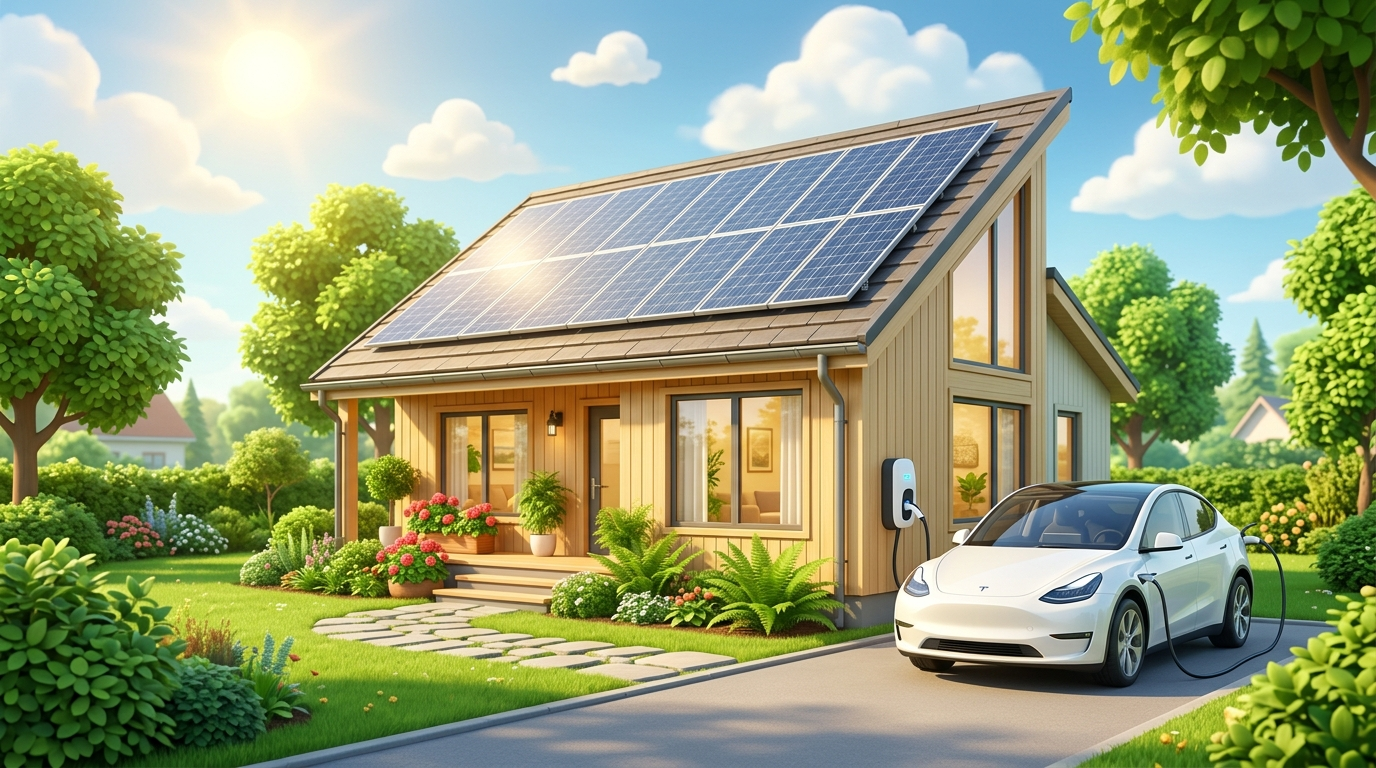
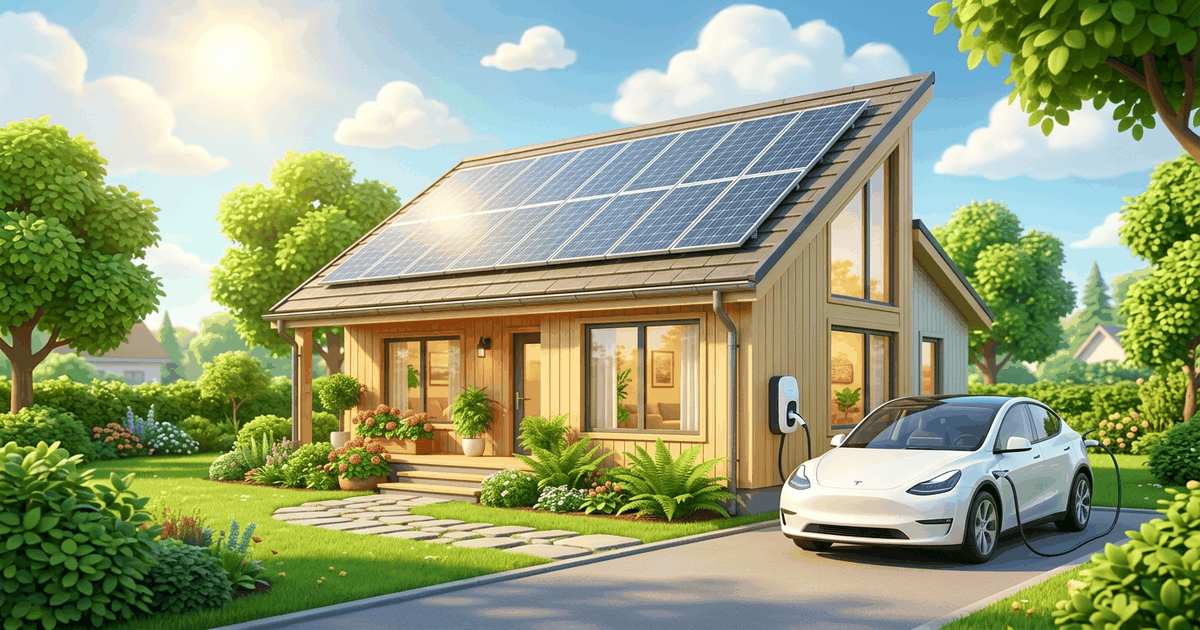
feat(social): optimize og-image (1200x630) and synchronize Open Graph & Twitter Card tags

Changed region(s): [[0.2775, 0.6333, 0.37, 0.754], [0.925, 0.4222, 0.9558, 0.4524], [0.4625, 0.7841, 0.4933, 0.8143]]

diff --git a/index.html b/index.html
@@ -174,11 +174,10 @@
     overflow: hidden !important;
   }
 </style>
-</head>
+<meta content="summary_large_image" name="twitter:card"/><meta content="태양광/전기차(EV) 절감액 계산기" name="twitter:title"/><meta content="우리집 태양광 설치 시 전기요금 절감액과 전기차 유지비를 계산해 보세요." name="twitter:description"/><meta content="https://solar.enjoy-onepage.com/og-image.png" name="twitter:image"/></head>
 <body>
 <!-- 상단 슬림 띠배너 (헤더 직하단: 50~60px 슬림형) -->
 <div class="manual-ad-box ad-top-banner" style="width: 100%; max-width: 960px; margin: 8px auto 16px; text-align: center;">
-
 <ins class="adsbygoogle" data-ad-client="ca-pub-2228289204702106" data-ad-format="horizontal" data-ad-slot="3824727725" data-full-width-responsive="true" style="display:inline-block;width:100%;height:60px;"></ins>
 <script>(adsbygoogle = window.adsbygoogle || []).push({});</script>
 </div>
@@ -293,104 +292,94 @@
 </div>
 </div>
 <!-- 하단 광고 (3205181558) -->
-
-
 <!-- 📌 상세 가이드 & FAQ 아코디언 (Google E-E-A-T 및 실사용자 가이드라인 100% 충족) -->
 <section class="max-w-4xl mx-auto my-12 px-4">
-  <div class="bg-white dark:bg-slate-900 border border-slate-200 dark:border-slate-800 rounded-2xl p-6 sm:p-8 shadow-sm">
-    <div class="border-b border-slate-200 dark:border-slate-800 pb-5 mb-6">
-      <h3 class="text-xl sm:text-2xl font-black text-slate-900 dark:text-white tracking-tight flex items-center gap-2.5">
-        <span>📖</span> 주택용 태양광 발전설비 경제성 및 전기요금 절감 가이드
+<div class="bg-white dark:bg-slate-900 border border-slate-200 dark:border-slate-800 rounded-2xl p-6 sm:p-8 shadow-sm">
+<div class="border-b border-slate-200 dark:border-slate-800 pb-5 mb-6">
+<h3 class="text-xl sm:text-2xl font-black text-slate-900 dark:text-white tracking-tight flex items-center gap-2.5">
+<span>📖</span> 주택용 태양광 발전설비 경제성 및 전기요금 절감 가이드
       </h3>
-      <p class="text-sm text-slate-500 dark:text-slate-400 mt-2 leading-relaxed">3kW 가정용 태양광 설치 시 누진구간 차감 효과와 설치비 회수 기간(ROI) 분석 기준입니다.</p>
-    </div>
-
-    <!-- 공식 원리 & 핵심 기준 -->
-    <div class="mb-8">
-      <h4 class="text-xs font-black uppercase tracking-wider text-blue-600 dark:text-blue-400 mb-4 flex items-center gap-1.5">
-        <span>⚖</span> 핵심 산출 기준 및 법정 원리
+<p class="text-sm text-slate-500 dark:text-slate-400 mt-2 leading-relaxed">3kW 가정용 태양광 설치 시 누진구간 차감 효과와 설치비 회수 기간(ROI) 분석 기준입니다.</p>
+</div>
+<!-- 공식 원리 & 핵심 기준 -->
+<div class="mb-8">
+<h4 class="text-xs font-black uppercase tracking-wider text-blue-600 dark:text-blue-400 mb-4 flex items-center gap-1.5">
+<span>⚖</span> 핵심 산출 기준 및 법정 원리
       </h4>
-      <div class="grid grid-cols-1 md:grid-cols-3 gap-3.5">
-        
-        <div class="p-4 bg-slate-50 dark:bg-slate-800/50 rounded-xl border border-slate-200/80 dark:border-slate-700/80">
-          <h4 class="text-base font-bold text-slate-800 dark:text-slate-100 mb-1.5 flex items-center gap-2">
-            <span class="w-2 h-2 rounded-full bg-blue-500"></span>전기요금 누진제 완화 원리
+<div class="grid grid-cols-1 md:grid-cols-3 gap-3.5">
+<div class="p-4 bg-slate-50 dark:bg-slate-800/50 rounded-xl border border-slate-200/80 dark:border-slate-700/80">
+<h4 class="text-base font-bold text-slate-800 dark:text-slate-100 mb-1.5 flex items-center gap-2">
+<span class="w-2 h-2 rounded-full bg-blue-500"></span>전기요금 누진제 완화 원리
           </h4>
-          <p class="text-sm text-slate-600 dark:text-slate-300 leading-relaxed">월 400kWh 이상 고율 누진 3단계 구간(kWh당 최고 단가)을 태양광 발전량(월 평균 300~350kWh)으로 상계하여 요금 폭탄을 제거합니다.</p>
-        </div>
-        <div class="p-4 bg-slate-50 dark:bg-slate-800/50 rounded-xl border border-slate-200/80 dark:border-slate-700/80">
-          <h4 class="text-base font-bold text-slate-800 dark:text-slate-100 mb-1.5 flex items-center gap-2">
-            <span class="w-2 h-2 rounded-full bg-blue-500"></span>정부 및 지자체 설치 보조금
+<p class="text-sm text-slate-600 dark:text-slate-300 leading-relaxed">월 400kWh 이상 고율 누진 3단계 구간(kWh당 최고 단가)을 태양광 발전량(월 평균 300~350kWh)으로 상계하여 요금 폭탄을 제거합니다.</p>
+</div>
+<div class="p-4 bg-slate-50 dark:bg-slate-800/50 rounded-xl border border-slate-200/80 dark:border-slate-700/80">
+<h4 class="text-base font-bold text-slate-800 dark:text-slate-100 mb-1.5 flex items-center gap-2">
+<span class="w-2 h-2 rounded-full bg-blue-500"></span>정부 및 지자체 설치 보조금
           </h4>
-          <p class="text-sm text-slate-600 dark:text-slate-300 leading-relaxed">한국에너지공단 주택지원사업을 통해 총 설치비(약 500~600만 원) 중 최대 40~50% 수준의 국비 및 지방비 지원을 받을 수 있습니다.</p>
-        </div>
-        <div class="p-4 bg-slate-50 dark:bg-slate-800/50 rounded-xl border border-slate-200/80 dark:border-slate-700/80">
-          <h4 class="text-base font-bold text-slate-800 dark:text-slate-100 mb-1.5 flex items-center gap-2">
-            <span class="w-2 h-2 rounded-full bg-blue-500"></span>한전 잉여전력 상계 거래
+<p class="text-sm text-slate-600 dark:text-slate-300 leading-relaxed">한국에너지공단 주택지원사업을 통해 총 설치비(약 500~600만 원) 중 최대 40~50% 수준의 국비 및 지방비 지원을 받을 수 있습니다.</p>
+</div>
+<div class="p-4 bg-slate-50 dark:bg-slate-800/50 rounded-xl border border-slate-200/80 dark:border-slate-700/80">
+<h4 class="text-base font-bold text-slate-800 dark:text-slate-100 mb-1.5 flex items-center gap-2">
+<span class="w-2 h-2 rounded-full bg-blue-500"></span>한전 잉여전력 상계 거래
           </h4>
-          <p class="text-sm text-slate-600 dark:text-slate-300 leading-relaxed">낮 동안 쓰고 남은 잉여 전력은 한전 계통으로 역전송되어 다음 달 전기요금에서 자동 차감 적립됩니다.</p>
-        </div>
-      </div>
-    </div>
-
-    <!-- 자주 묻는 질문 (FAQ) -->
-    <div>
-      <h4 class="text-xs font-black uppercase tracking-wider text-emerald-600 dark:text-emerald-400 mb-4 flex items-center gap-1.5">
-        <span>❓</span> 자주 묻는 질문 (FAQ)
+<p class="text-sm text-slate-600 dark:text-slate-300 leading-relaxed">낮 동안 쓰고 남은 잉여 전력은 한전 계통으로 역전송되어 다음 달 전기요금에서 자동 차감 적립됩니다.</p>
+</div>
+</div>
+</div>
+<!-- 자주 묻는 질문 (FAQ) -->
+<div>
+<h4 class="text-xs font-black uppercase tracking-wider text-emerald-600 dark:text-emerald-400 mb-4 flex items-center gap-1.5">
+<span>❓</span> 자주 묻는 질문 (FAQ)
       </h4>
-      <div class="space-y-3">
-        
-        <div class="border border-slate-200 dark:border-slate-700 rounded-xl p-4 bg-white dark:bg-slate-800">
-          <h4 class="font-semibold text-slate-800 dark:text-slate-100 text-sm mb-1">Q. 비가 오거나 흐린 날, 겨울철에도 발전이 되나요?</h4>
-          <p class="text-xs text-slate-600 dark:text-slate-300 leading-relaxed">A. 네, 흐린 날은 맑은 날의 20~30%, 비 오는 날은 10~15% 수준으로 발전되며, 연간 평균 일조시간(3.2~3.5시간)으로 총 발전량을 계산합니다.</p>
-        </div>
-        <div class="border border-slate-200 dark:border-slate-700 rounded-xl p-4 bg-white dark:bg-slate-800">
-          <h4 class="font-semibold text-slate-800 dark:text-slate-100 text-sm mb-1">Q. 태양광 패널의 수명과 효율 저하는 어떻게 되나요?</h4>
-          <p class="text-xs text-slate-600 dark:text-slate-300 leading-relaxed">A. 태양광 모듈은 20~25년간 작동하며 매년 약 0.5%씩 서서히 효율이 감소합니다. 인버터는 약 7~10년 주기 교체가 권장됩니다.</p>
-        </div>
-        <div class="border border-slate-200 dark:border-slate-700 rounded-xl p-4 bg-white dark:bg-slate-800">
-          <h4 class="font-semibold text-slate-800 dark:text-slate-100 text-sm mb-1">Q. 아파트 베란다에도 3kW 설비를 설치할 수 있나요?</h4>
-          <p class="text-xs text-slate-600 dark:text-slate-300 leading-relaxed">A. 3kW는 단독주택 옥상(약 4~5평)에 적합하며, 아파트 베란다는 소형 미니 태양광(300~400W급) 거치대를 주로 설치합니다.</p>
-        </div>
-      </div>
-    </div>
-  </div>
+<div class="space-y-3">
+<div class="border border-slate-200 dark:border-slate-700 rounded-xl p-4 bg-white dark:bg-slate-800">
+<h4 class="font-semibold text-slate-800 dark:text-slate-100 text-sm mb-1">Q. 비가 오거나 흐린 날, 겨울철에도 발전이 되나요?</h4>
+<p class="text-xs text-slate-600 dark:text-slate-300 leading-relaxed">A. 네, 흐린 날은 맑은 날의 20~30%, 비 오는 날은 10~15% 수준으로 발전되며, 연간 평균 일조시간(3.2~3.5시간)으로 총 발전량을 계산합니다.</p>
+</div>
+<div class="border border-slate-200 dark:border-slate-700 rounded-xl p-4 bg-white dark:bg-slate-800">
+<h4 class="font-semibold text-slate-800 dark:text-slate-100 text-sm mb-1">Q. 태양광 패널의 수명과 효율 저하는 어떻게 되나요?</h4>
+<p class="text-xs text-slate-600 dark:text-slate-300 leading-relaxed">A. 태양광 모듈은 20~25년간 작동하며 매년 약 0.5%씩 서서히 효율이 감소합니다. 인버터는 약 7~10년 주기 교체가 권장됩니다.</p>
+</div>
+<div class="border border-slate-200 dark:border-slate-700 rounded-xl p-4 bg-white dark:bg-slate-800">
+<h4 class="font-semibold text-slate-800 dark:text-slate-100 text-sm mb-1">Q. 아파트 베란다에도 3kW 설비를 설치할 수 있나요?</h4>
+<p class="text-xs text-slate-600 dark:text-slate-300 leading-relaxed">A. 3kW는 단독주택 옥상(약 4~5평)에 적합하며, 아파트 베란다는 소형 미니 태양광(300~400W급) 거치대를 주로 설치합니다.</p>
+</div>
+</div>
+</div>
+</div>
 </section>
-
 <!-- 🔗 연관 유틸리티 도구 추천 카드 (사용자 체류시간 증가 & SEO 내부 링크) -->
 <section class="max-w-4xl mx-auto my-8 px-4">
-  <div class="bg-slate-50 dark:bg-slate-900/60 border border-slate-200 dark:border-slate-800 rounded-2xl p-6 shadow-sm">
-    <h3 class="text-base font-black text-slate-900 dark:text-white mb-4 flex items-center gap-2">
-      <span>💡</span> 함께 많이 활용하는 필수 계산기 & 도구
+<div class="bg-slate-50 dark:bg-slate-900/60 border border-slate-200 dark:border-slate-800 rounded-2xl p-6 shadow-sm">
+<h3 class="text-base font-black text-slate-900 dark:text-white mb-4 flex items-center gap-2">
+<span>💡</span> 함께 많이 활용하는 필수 계산기 &amp; 도구
     </h3>
-    <div class="grid grid-cols-1 sm:grid-cols-3 gap-3.5">
-      
-      <a href="https://jeonse-deposit-calc.enjoy-onepage.com/" class="p-4 bg-white dark:bg-slate-800 rounded-xl border border-slate-200 dark:border-slate-700 hover:border-blue-500 hover:shadow-md transition flex items-center justify-between group">
-        <div>
-          <div class="text-xs text-blue-600 dark:text-blue-400 font-bold mb-1">추천 유틸리티</div>
-          <div class="text-sm font-black text-slate-800 dark:text-slate-100 group-hover:text-blue-600 transition">전세보증금 안전진단 계산기</div>
-        </div>
-        <span class="text-slate-400 group-hover:translate-x-1 transition font-bold">→</span>
-      </a>
-      <a href="https://jeonse-renew.enjoy-onepage.com/" class="p-4 bg-white dark:bg-slate-800 rounded-xl border border-slate-200 dark:border-slate-700 hover:border-blue-500 hover:shadow-md transition flex items-center justify-between group">
-        <div>
-          <div class="text-xs text-blue-600 dark:text-blue-400 font-bold mb-1">추천 유틸리티</div>
-          <div class="text-sm font-black text-slate-800 dark:text-slate-100 group-hover:text-blue-600 transition">전세 갱신 5% 상한 계산기</div>
-        </div>
-        <span class="text-slate-400 group-hover:translate-x-1 transition font-bold">→</span>
-      </a>
-      <a href="https://real-estate-brokerage-fee.enjoy-onepage.com/" class="p-4 bg-white dark:bg-slate-800 rounded-xl border border-slate-200 dark:border-slate-700 hover:border-blue-500 hover:shadow-md transition flex items-center justify-between group">
-        <div>
-          <div class="text-xs text-blue-600 dark:text-blue-400 font-bold mb-1">추천 유틸리티</div>
-          <div class="text-sm font-black text-slate-800 dark:text-slate-100 group-hover:text-blue-600 transition">부동산 중개보수(복비) 계산기</div>
-        </div>
-        <span class="text-slate-400 group-hover:translate-x-1 transition font-bold">→</span>
-      </a>
-    </div>
-  </div>
+<div class="grid grid-cols-1 sm:grid-cols-3 gap-3.5">
+<a class="p-4 bg-white dark:bg-slate-800 rounded-xl border border-slate-200 dark:border-slate-700 hover:border-blue-500 hover:shadow-md transition flex items-center justify-between group" href="https://jeonse-deposit-calc.enjoy-onepage.com/">
+<div>
+<div class="text-xs text-blue-600 dark:text-blue-400 font-bold mb-1">추천 유틸리티</div>
+<div class="text-sm font-black text-slate-800 dark:text-slate-100 group-hover:text-blue-600 transition">전세보증금 안전진단 계산기</div>
+</div>
+<span class="text-slate-400 group-hover:translate-x-1 transition font-bold">→</span>
+</a>
+<a class="p-4 bg-white dark:bg-slate-800 rounded-xl border border-slate-200 dark:border-slate-700 hover:border-blue-500 hover:shadow-md transition flex items-center justify-between group" href="https://jeonse-renew.enjoy-onepage.com/">
+<div>
+<div class="text-xs text-blue-600 dark:text-blue-400 font-bold mb-1">추천 유틸리티</div>
+<div class="text-sm font-black text-slate-800 dark:text-slate-100 group-hover:text-blue-600 transition">전세 갱신 5% 상한 계산기</div>
+</div>
+<span class="text-slate-400 group-hover:translate-x-1 transition font-bold">→</span>
+</a>
+<a class="p-4 bg-white dark:bg-slate-800 rounded-xl border border-slate-200 dark:border-slate-700 hover:border-blue-500 hover:shadow-md transition flex items-center justify-between group" href="https://real-estate-brokerage-fee.enjoy-onepage.com/">
+<div>
+<div class="text-xs text-blue-600 dark:text-blue-400 font-bold mb-1">추천 유틸리티</div>
+<div class="text-sm font-black text-slate-800 dark:text-slate-100 group-hover:text-blue-600 transition">부동산 중개보수(복비) 계산기</div>
+</div>
+<span class="text-slate-400 group-hover:translate-x-1 transition font-bold">→</span>
+</a>
+</div>
+</div>
 </section>
-
-
 <footer style="margin-top: 40px; padding: 25px 0; border-top: 1px solid var(--border); text-align: center; font-size: 0.82rem; color: #888; line-height: 1.6;">
 <p style="margin: 0 0 6px;">가정용 태양광 발전 및 전기차 유지비 절감 시뮬레이션 무료 계산기입니다.</p>
 <p style="margin: 0;">
@@ -401,7 +390,6 @@
 </footer>
 <!-- 하단 대형 배너 (푸터 직전) -->
 <div class="manual-ad-box ad-bottom-banner" style="width: 100%; max-width: 960px; margin: 24px auto 16px; text-align: center;">
-
 <ins class="adsbygoogle" data-ad-client="ca-pub-2228289204702106" data-ad-format="auto" data-ad-slot="3416334507" data-full-width-responsive="true" style="display:block"></ins>
 <script>(adsbygoogle = window.adsbygoogle || []).push({});</script>
 </div>
